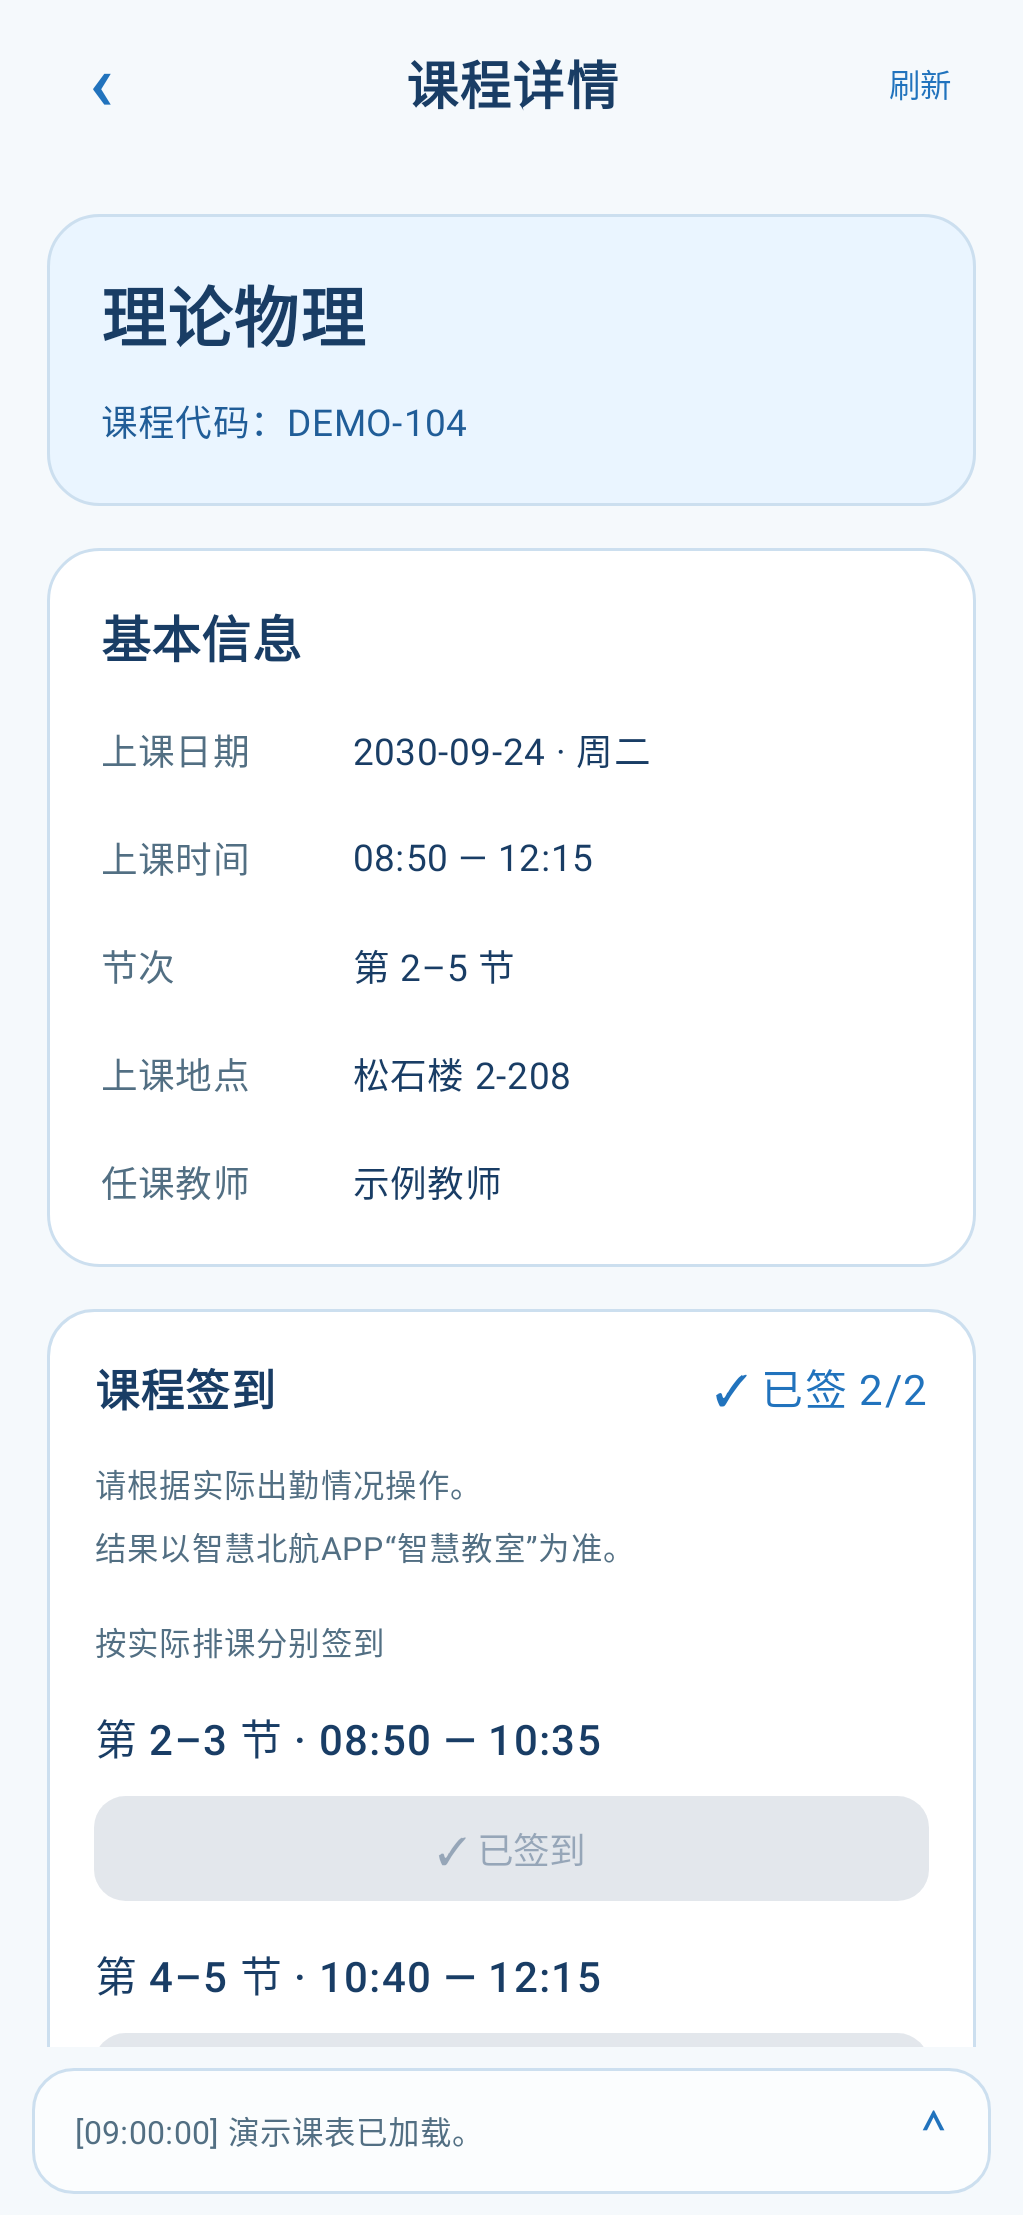
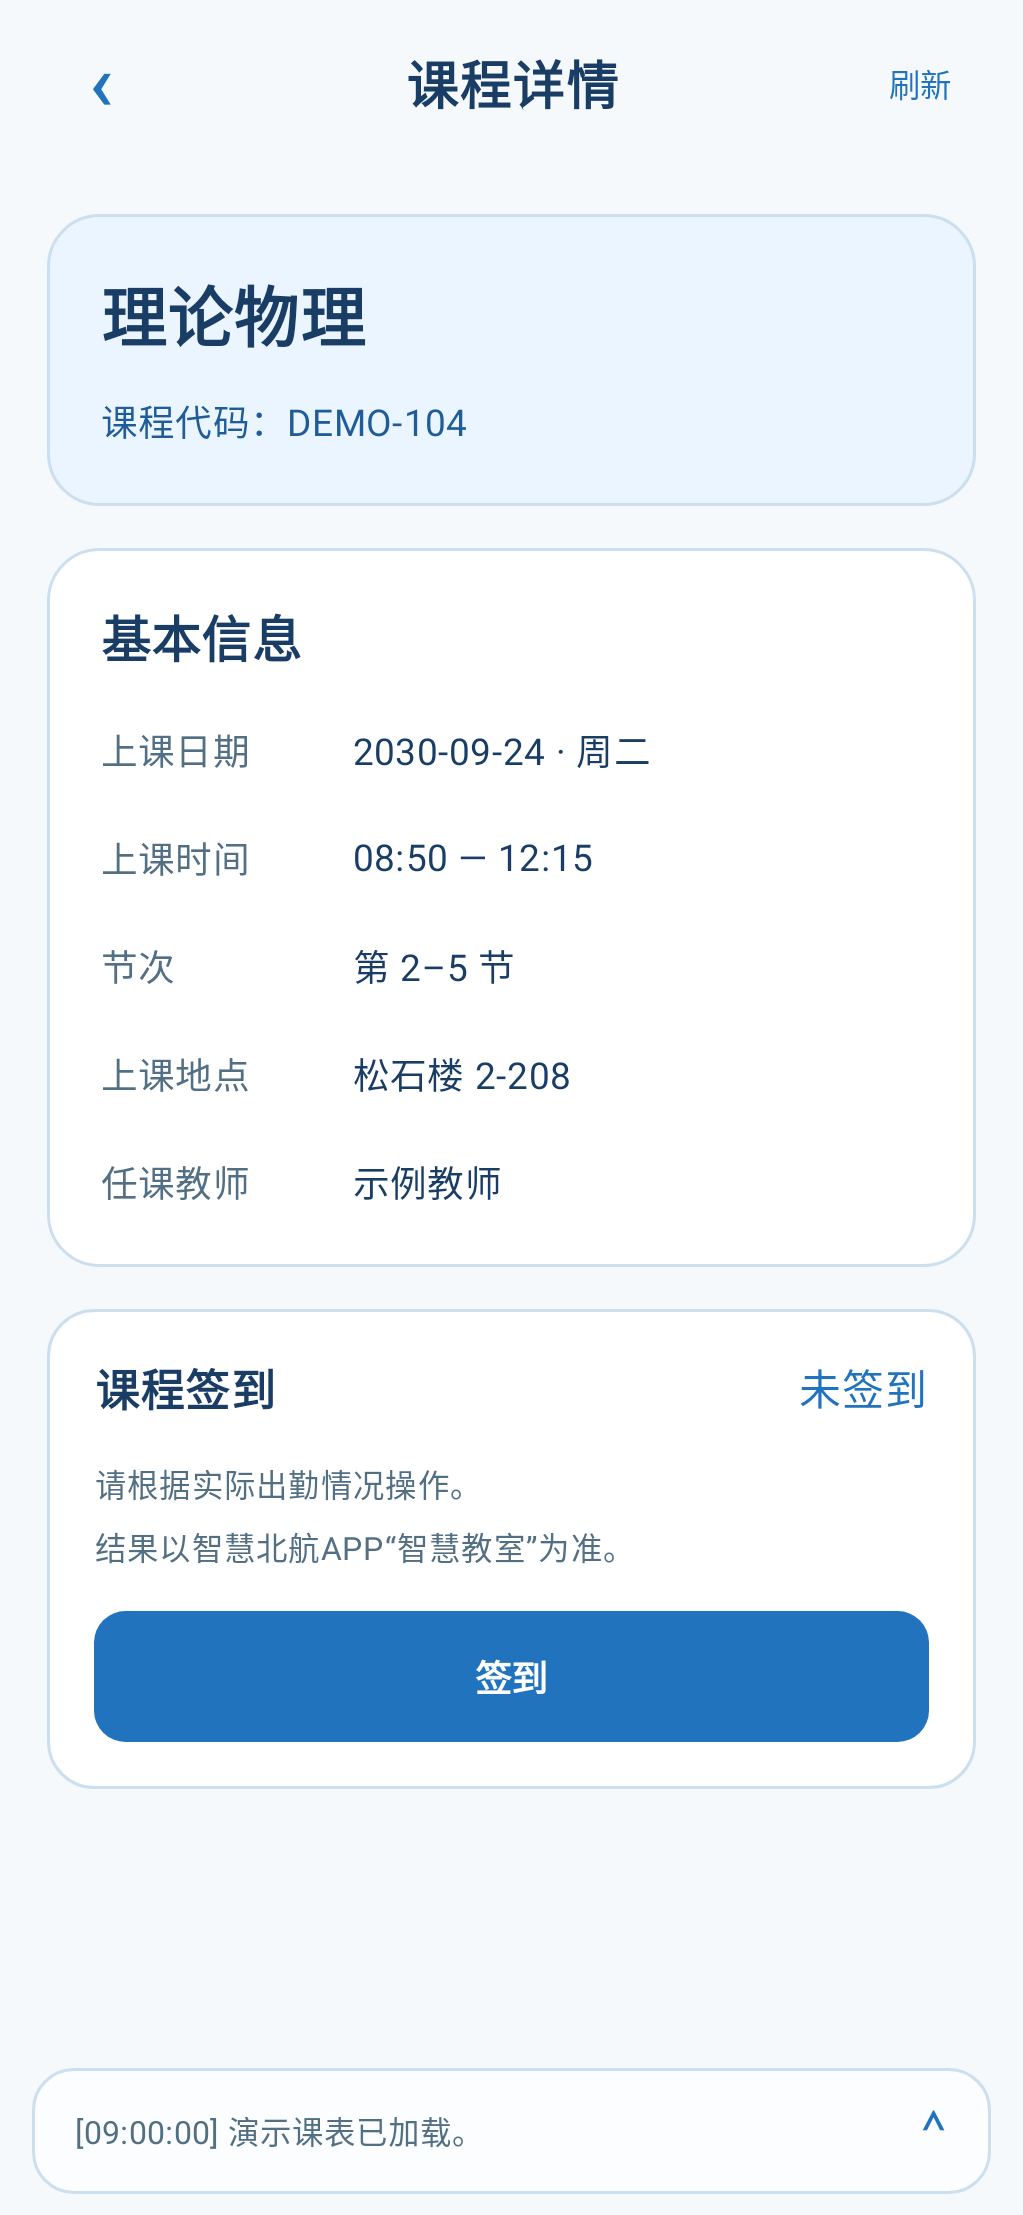
Refresh README interface previews

diff --git a/android/app/src/test/java/org/buaacourse/assistant/AssistantPreviewTest.kt b/android/app/src/test/java/org/buaacourse/assistant/AssistantPreviewTest.kt
@@ -3,6 +3,8 @@ package org.buaacourse.assistant
 import android.graphics.Bitmap
 import android.graphics.Canvas
 import androidx.activity.ComponentActivity
+import androidx.compose.runtime.mutableStateOf
+import androidx.compose.ui.test.assertIsDisplayed
 import androidx.compose.ui.test.junit4.createAndroidComposeRule
 import androidx.compose.ui.test.onNodeWithTag
 import androidx.compose.ui.test.performClick
@@ -55,16 +57,32 @@ class AssistantPreviewTest {
         capture("native-courses")
     }
 
+    @Test fun captureDirectAttendancePreview() {
+        val official = coursePreviewState()
+        val direct = checkNotNull(official.schedule).let { schedule ->
+            WeekSchedule(schedule.week, schedule.semesterStart, schedule.days.map { day ->
+                day.copy(courses = day.courses.filter { it.attendanceAvailable })
+            })
+        }
+        val state = mutableStateOf(official)
+        compose.setContent {
+            AssistantContent(state.value, AssistantActions(attendanceMode = { mode ->
+                state.value = if (mode == AttendanceMode.TIMETABLE) official else official.copy(
+                    attendanceMode = mode,
+                    schedule = direct,
+                    logs = listOf(AppLog("演示 iClass 签到列表已加载。", "success", LocalTime.of(9, 0))),
+                )
+            }))
+        }
+        compose.onNodeWithTag("attendance_mode_switch").performClick()
+        compose.onNodeWithTag("iclass_attendance_list").assertIsDisplayed()
+        capture("native-iclass")
+    }
+
     @Test fun captureDetailPreview() {
-        val base = coursePreviewState()
-        val schedule = base.schedule!!
-        val updated = schedule.copy(days = schedule.days.map { day -> day.copy(courses = day.courses.map { c ->
-            if (c.id != "demo-4") c else c.copy(signed = true, attendanceSessions = listOf(
-                c.copy(id = "session-one", classBeginTime = "08:50", classEndTime = "10:35", scheduleIds = listOf("session-one"), signed = true),
-                c.copy(id = "session-two", classBeginTime = "10:40", classEndTime = "12:15", scheduleIds = listOf("session-two"), signed = true)))
-        }) })
-        compose.setContent { AssistantContent(base.copy(schedule = updated)) }
+        compose.setContent { AssistantContent(coursePreviewState()) }
         compose.onNodeWithTag("course_demo-4").performClick()
+        compose.onNodeWithTag("sign_demo-4").assertIsDisplayed()
         capture("native-course-detail")
     }
 
@@ -115,7 +133,10 @@ class AssistantPreviewTest {
             Course("demo-$id", name, courseNum = "DEMO-${100 + id}", classBeginTime = begin, classEndTime = end,
                 classroomName = room, teachers = listOf("示例教师"), signed = signed, classCode = "DEMO-${100 + id}-01")
         val byDay = mapOf(
-            0 to listOf(demo(1, "高等数学", "09:50", "11:25", "星桥楼 6-107").copy(attendanceNotRequired = true, attendanceAvailable = false)),
+            0 to listOf(
+                demo(1, "高等数学", "09:50", "11:25", "星桥楼 6-107").copy(attendanceNotRequired = true, attendanceAvailable = false),
+                demo(10, "大学物理", "14:00", "15:35", "松石楼 2-208", true),
+            ),
             1 to listOf(demo(4, "理论物理", "08:50", "12:15", "松石楼 2-208"), demo(6, "程序设计基础", "14:00", "15:35", "云岸楼 1-104")),
             2 to listOf(demo(2, "线性代数", "08:00", "09:35", "星桥楼 3-206", true), demo(7, "大学英语", "15:50", "17:25", "云岸楼 4-312")),
             3 to listOf(demo(3, "概率论与数理统计", "14:00", "16:35", "松石楼 5-103")),

diff --git a/README.md b/README.md
@@ -27,9 +27,13 @@
 
 以下截图使用演示数据。
 
-| 登录页 | 周课表 | 课程详情 |
-| --- | --- | --- |
-| ![登录页](docs/native-login.png) | ![周课表](docs/native-courses.png) | ![课程详情](docs/native-course-detail.png) |
+| 课表签到 | iClass 签到 |
+| --- | --- |
+| ![周课表，右上角有切换按钮](docs/native-courses.png) | ![切换后的 iClass 签到列表](docs/native-iclass.png) |
+
+| 登录页 | 课程详情 |
+| --- | --- |
+| ![登录页](docs/native-login.png) | ![课程详情](docs/native-course-detail.png) |
 
 ## 免责声明
 
